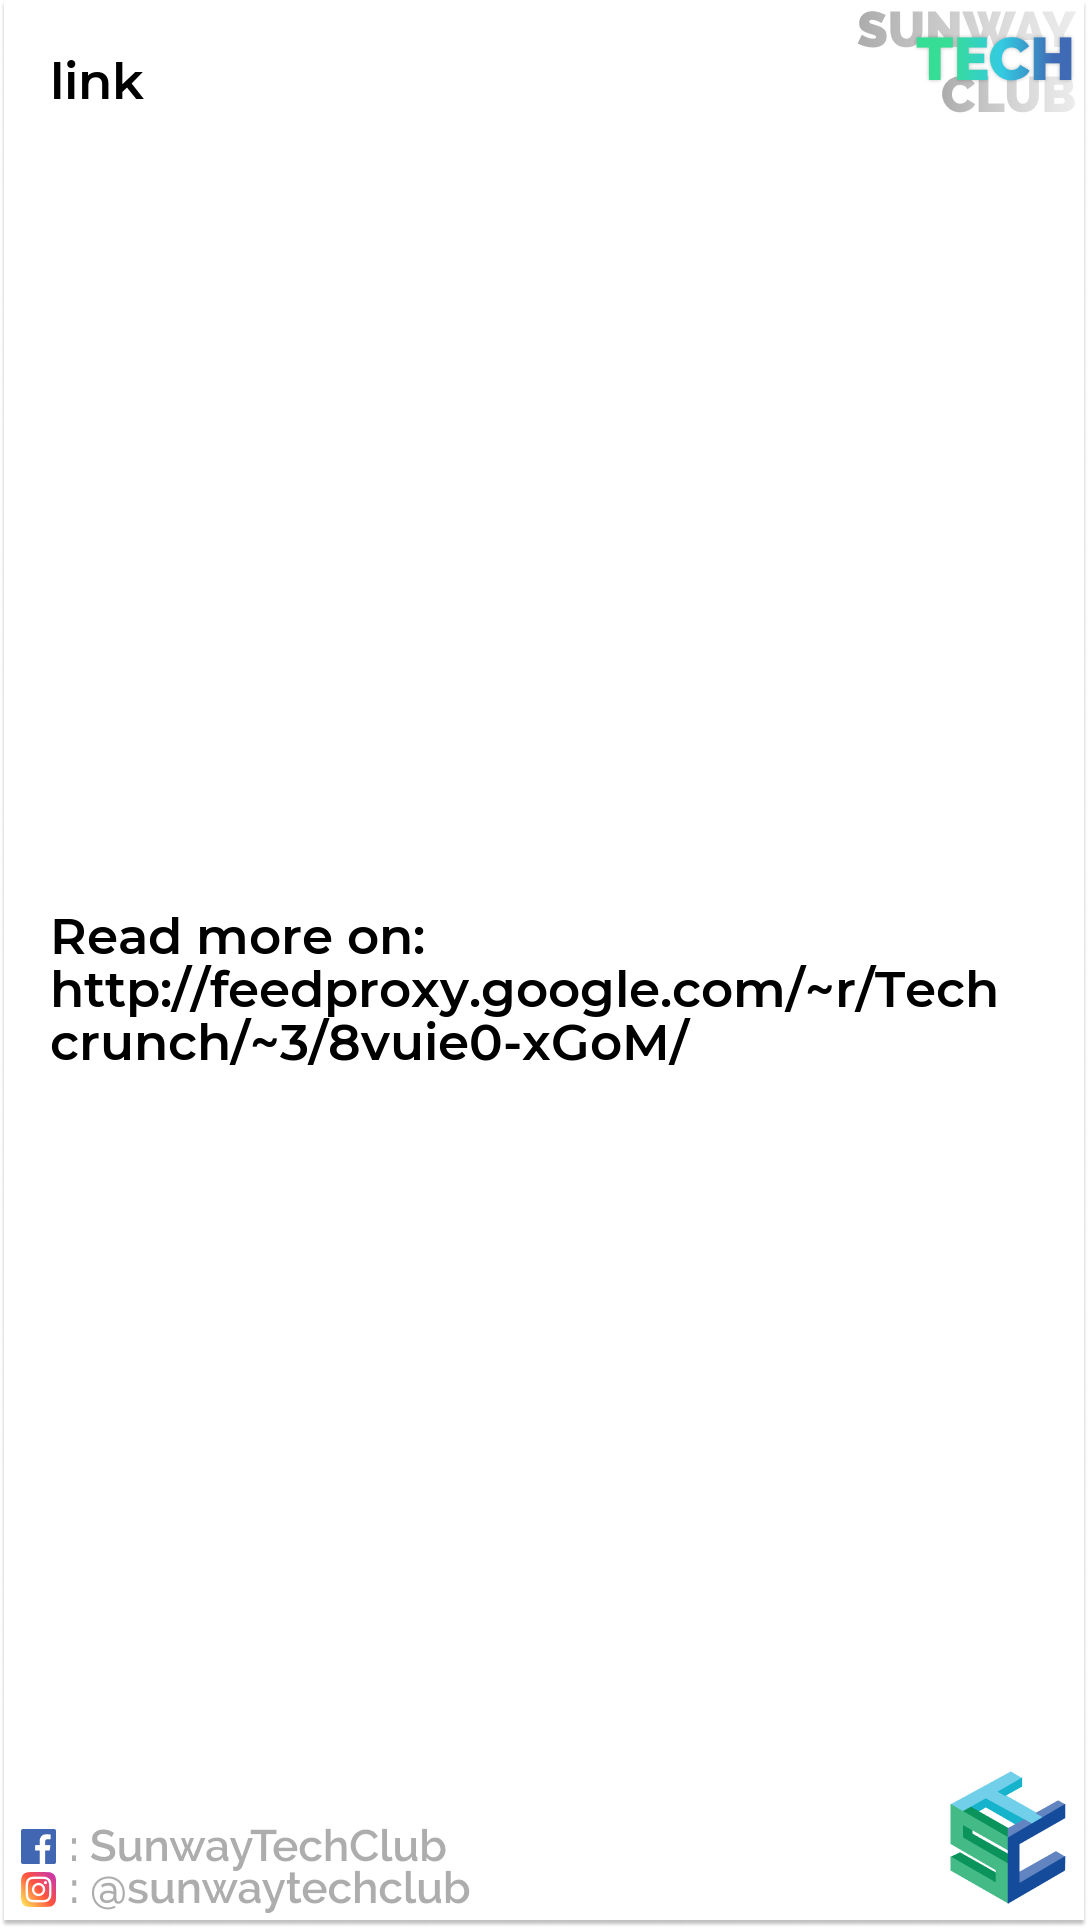
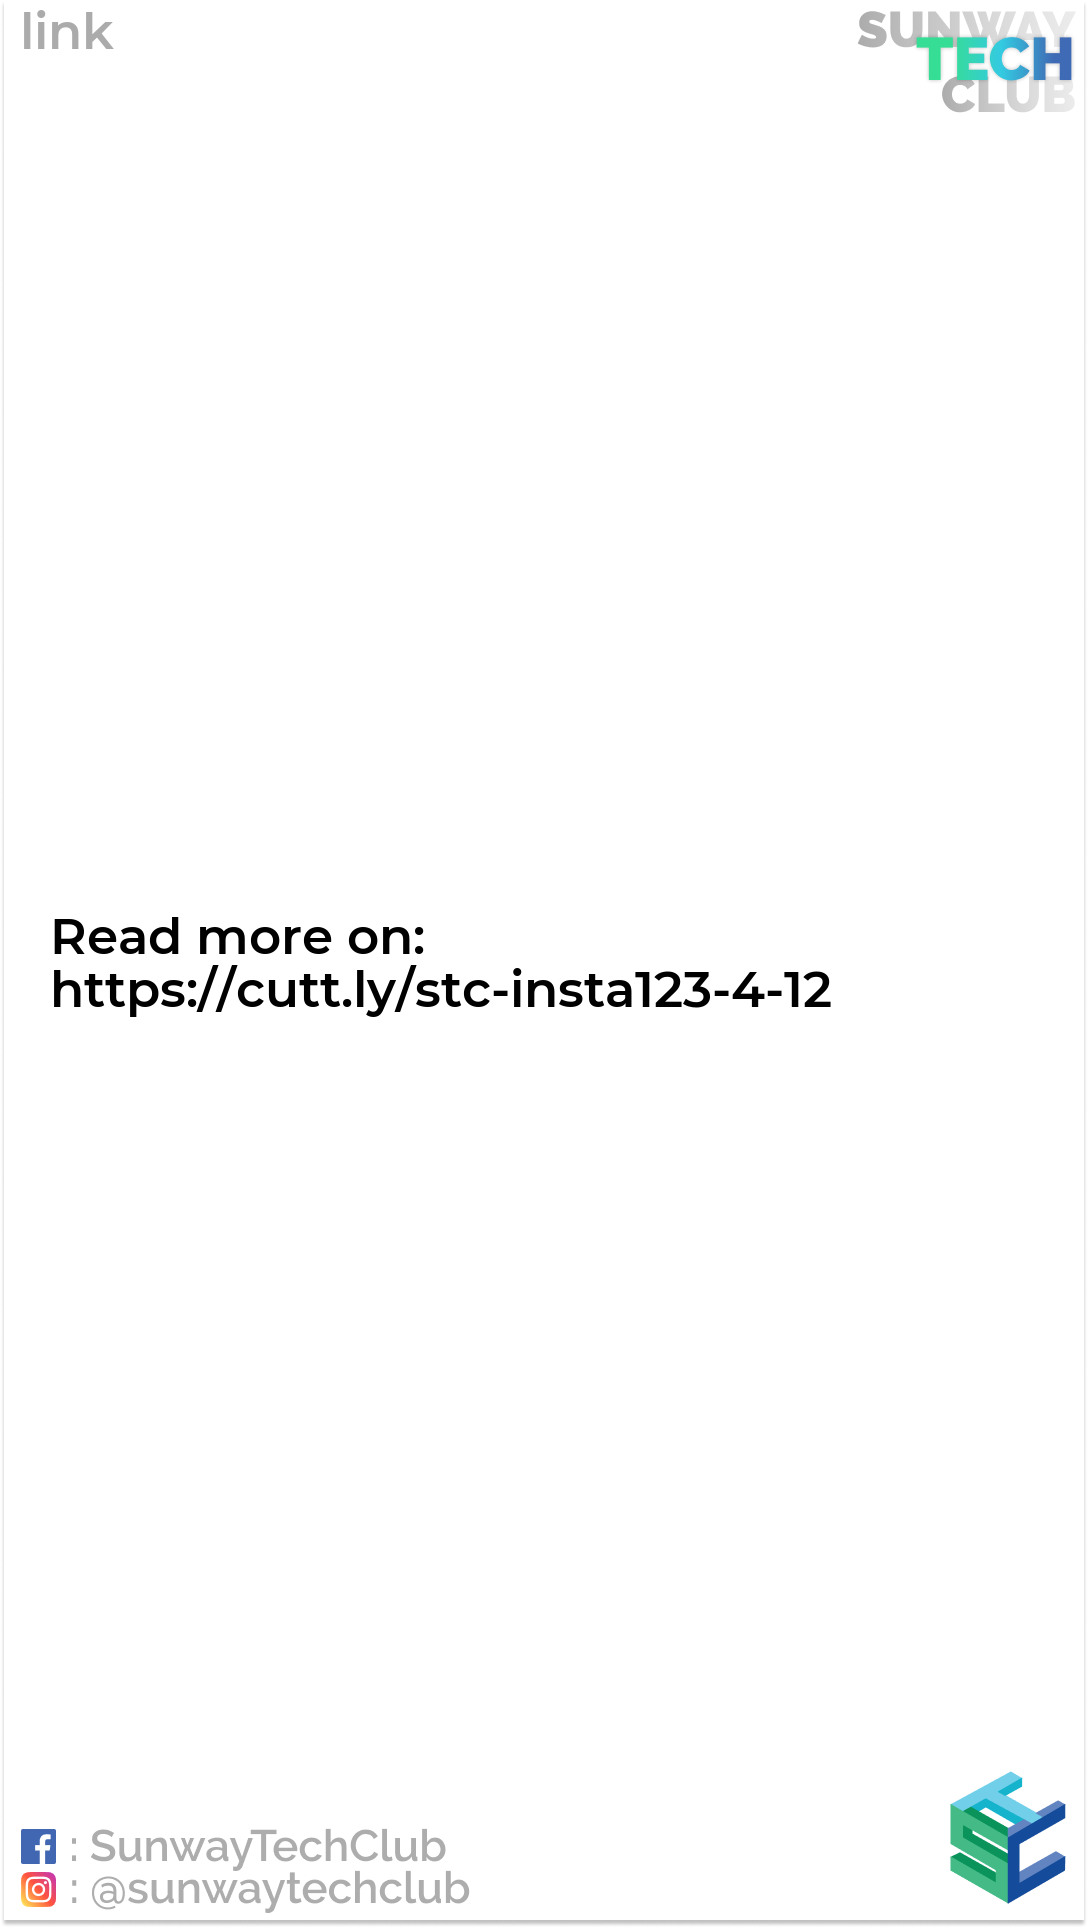
added short link auto generator

Changed region(s): [[0.0312, 0.4979, 0.9062, 0.5602], [0.0, 0.0, 0.125, 0.0622]]

diff --git a/app.py b/app.py
@@ -1,8 +1,10 @@
 import feedparser
 import textwrap
+from datetime import date
 from bs4 import BeautifulSoup
 from generate_story import output_cert
 from keywords_extract import get_topic
+from generate_short_link import generate_short_link
 
 
 def generate(index):
@@ -13,11 +15,19 @@ def generate(index):
     link = textwrap.wrap(entry.link, width=35)
 
     output_title, output_link, output_text = "", "", ""
-
     for i in title:
         output_title += i+"\n"
     for i in link:
         output_link += i + "\n"
+
+    key = ""
+    with open("api_key.txt", 'r')as f:
+        key = f.read().replace(" ", "").replace("\n", "")
+
+    res = generate_short_link(
+        entry.link, key, 'stc-insta-'+str(date.today().month)+"-"+str(date.today().day))
+    output_link = res['url'].get('shortLink', output_link)
+
     output_link = "Read more on: \n"+output_link
 
     paragraphs = soup.get_text().split(". ")
@@ -38,7 +48,8 @@ NewsFeed = feedparser.parse(
     "http://feeds.feedburner.com/TechCrunch/")
 
 titles = []
-for entry in NewsFeed.entries:
-    titles.append(entry.title)
+amount = 5 if len(NewsFeed.entries) >= 5 else len(NewsFeed.entries)
+for i in range(amount):
+    titles.append(NewsFeed.entries[i].title)
 index = get_topic(titles)
 generate(index)

diff --git a/generate_story.py b/generate_story.py
@@ -18,8 +18,8 @@ def output_cert(title, val, line_length):
     text_width, text_height = font.getsize(val)
     draw.text((50, (img_height/2)-(text_height*(line_length)/2)),
               val, (0, 0, 0), font=font)
-    draw.text((50, 50),
-              title, (0, 0, 0), font=font)
+    draw.text((20, 0),
+              title, (171, 171, 171), font=font)
     img.save(f'output/{title}.png')
     print(f'Generated {title}')
 

diff --git a/generate_short_link.py b/generate_short_link.py
@@ -1,0 +1,8 @@
+import urllib.request
+import json
+
+
+def generate_short_link(url, key, name):
+    url = f"""https://cutt.ly/api/api.php?key={key}&short={url}&name={name}"""
+    res = json.loads(urllib.request.urlopen(url).read(1000).decode('utf-8'))
+    return res

diff --git a/README.md b/README.md
@@ -3,3 +3,21 @@
 `pip install -r requirements.txt`
 
 `python app.py`
+
+## Pre-requisite
+
+1. get [cutt.ly api key](https://cutt.ly/cuttly-api)
+
+    - The API is available only to registered users. API key can be generate in account edit page
+
+2. paste the api key in the api_key.txt directly, save it.
+
+## How it works
+
+1. Get rss tech news feed from [http://feeds.feedburner.com/TechCrunch/](http://feeds.feedburner.com/TechCrunch/)
+
+2. For each news, do keywords extractions from the title
+
+3. The highest weight of the title wins
+
+4. generate the instagram story based on the news
